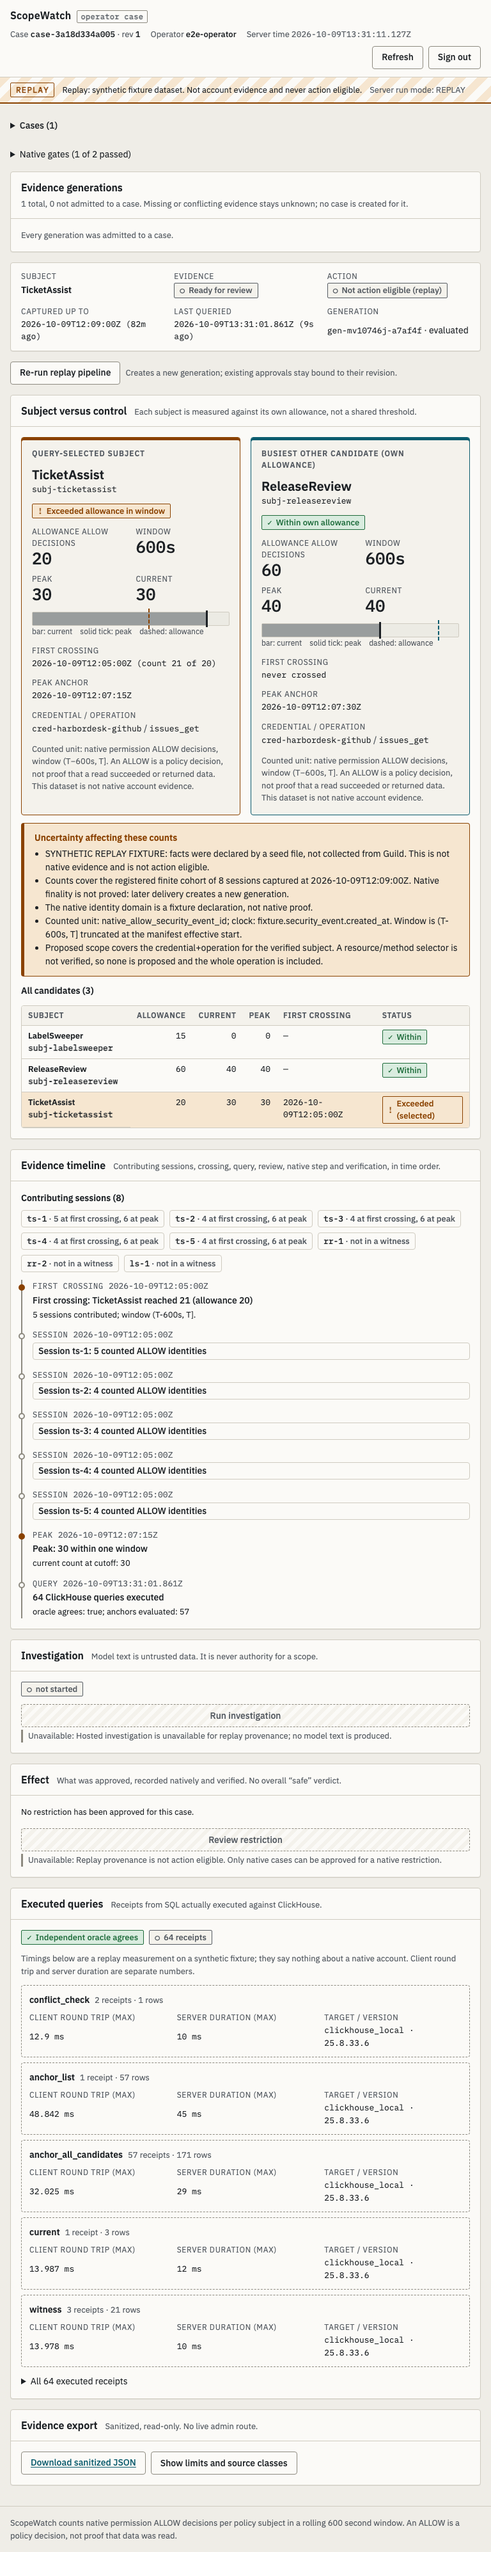
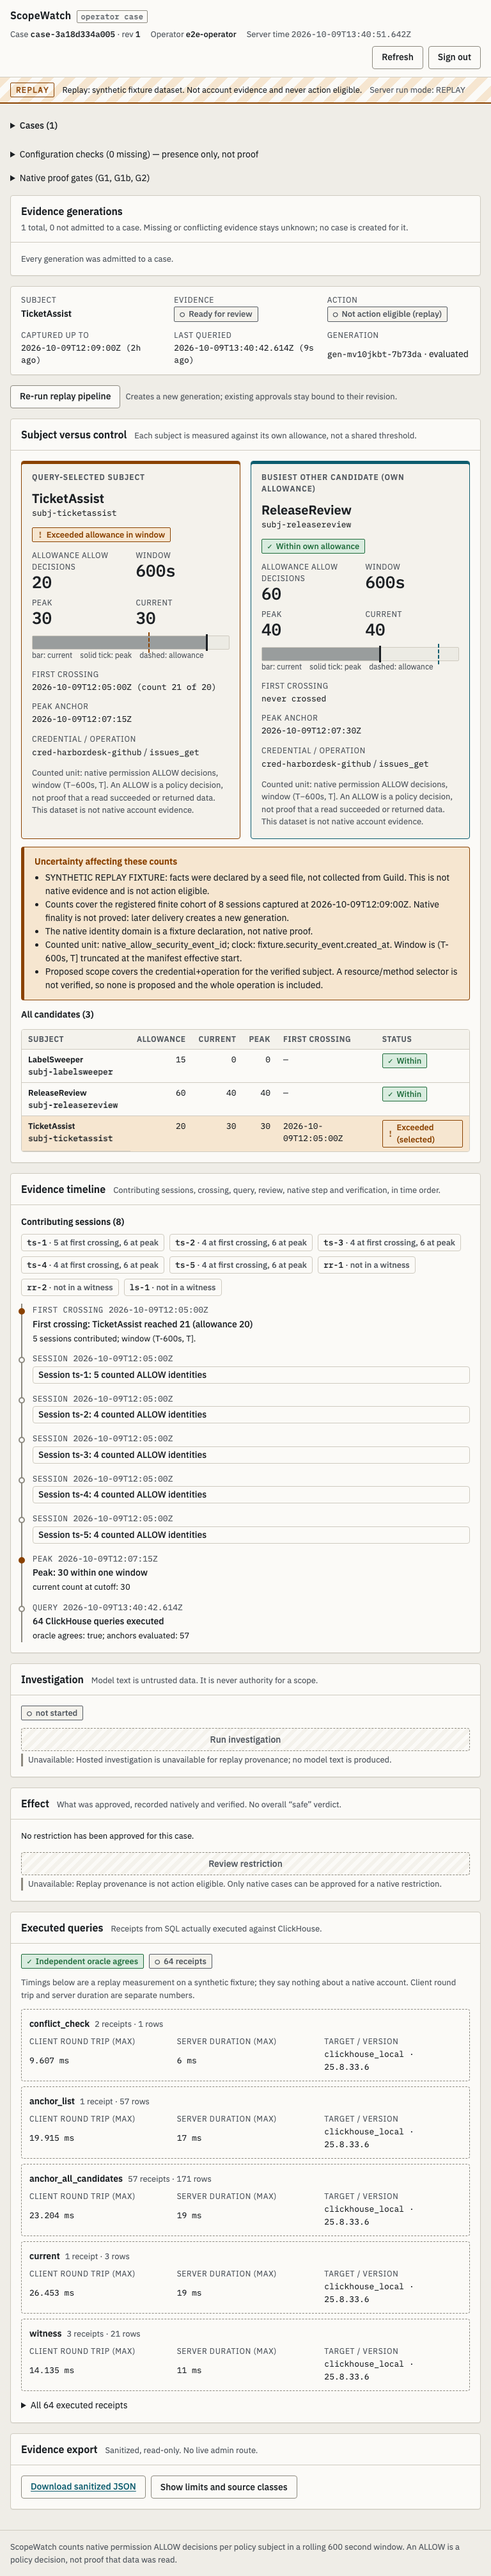
Acceptance: recovery mismatch/wrong-content/correct flows, status wording check, superseded-generation behavior; refreshed recovery screenshots

Changed region(s): [[0.0312, 0.0311, 0.9688, 0.995], [0.7812, 0.0, 0.8438, 0.0311], [0.5312, 0.0622, 0.5625, 0.0933]]

diff --git a/tests/e2e/03-contract-flow.spec.ts b/tests/e2e/03-contract-flow.spec.ts
@@ -209,17 +209,61 @@ test('recovery is a separate review: start, approve, record removal, fail withou
   await page.locator('#arv').fill('e2e: approve recovery scope');
   await page.getByRole('button', { name: 'Approve recovery scope' }).click();
   await expect(page.locator('#rm-submit')).toBeVisible();
-  // removal receipt recorded but the mock DENY is STILL applied -> recovery verification must fail
-  await page.locator('#rm-a').fill(new Date().toISOString());
-  await page.locator('#rm-n').fill('e2e: operator says removed (mock deny still applied)');
+  const scope = (await detail(page)).proposedScope;
+  const fillRemoval = async (subject: string, note: string) => {
+    await page.locator('#rm-ws').fill(scope.workspaceId);
+    await page.locator('#rm-sub').fill(subject);
+    await page.locator('#rm-cred').fill(scope.credentialId);
+    await page.locator('#rm-op').fill(scope.operation);
+    await page.locator('#rm-dec').fill('DENY');
+    await page.locator('#rm-a').fill(new Date().toISOString());
+    await page.locator('#rm-n').fill(note);
+  };
+  // 1) removal receipt whose observed selectors do NOT match the restriction scope -> mismatch, recovery cannot be verified
+  await fillRemoval('some-other-subject-id', 'e2e: observed removal of a different subject rule');
   await page.locator('#rm-submit').click();
+  await expect.poll(async () => (await recoveryAction(page)).state).not.toBe('approved');
+  rec = await recoveryAction(page);
+  expect(rec.state).toBe('scope_mismatch');
+  const blocked = await apiPost(page, CONTRACT, `/api/actions/${rec.actionId}/verify`, { expectedVersion: rec.version });
+  expect(blocked.status()).toBe(409);
+  await page.screenshot({ path: `${SHOTS}/contract-test-removal-mismatch-1440.png`, fullPage: true });
+  // 2) correct removal receipt, but the mock DENY is STILL applied -> recovery verification must fail
+  if (await page.locator('#rm-submit').isVisible()) {
+    await fillRemoval(scope.policySubjectId, 'e2e: operator says removed (mock deny still applied)');
+    await page.locator('#rm-submit').click();
+  } else {
+    // FINDING (P2): server accepts a corrected removal receipt from scope_mismatch, but the UI offers no form in that state.
+    test.info().annotations.push({ type: 'finding', description: 'UI: no removal-receipt form after scope_mismatch; corrected via API' });
+    const cur = await recoveryAction(page);
+    const r = await apiPost(page, CONTRACT, `/api/actions/${cur.actionId}/removal-receipt`, {
+      expectedVersion: cur.version, method: 'guild_ui', nativeRuleId: null,
+      observedSelectors: { workspaceId: scope.workspaceId, policySubjectId: scope.policySubjectId, credentialId: scope.credentialId, operation: scope.operation, decision: 'DENY', resources: null },
+      removedAt: new Date().toISOString(), evidenceNote: 'e2e: corrected removal receipt (mock deny still applied)',
+    });
+    expect(r.status(), await r.text()).toBe(200);
+    await page.reload();
+  }
   await expect(page.getByRole('button', { name: 'Verify recovery with fresh sessions' })).toBeVisible();
   await page.getByRole('button', { name: 'Verify recovery with fresh sessions' }).click();
   await expect(page.getByTestId('action-recovery').getByText(/Recovery verification failed|recovery failed|Recovery could not be decided/i).first()).toBeVisible({ timeout: 60_000 });
   rec = await recoveryAction(page);
   expect(['recovery_failed', 'recovery_unknown']).toContain(rec.state);
-  // human removes the mock rule; verify again
+  // 3) human removes the mock rule, but the target's content is wrong: a bare ALLOW is NOT recovery
   await mockControl('undeny', {});
+  await mockControl('scenario', { targetWrongContent: true });
+  try {
+    await page.getByRole('button', { name: 'Verify recovery with fresh sessions' }).click();
+    await expect.poll(async () => (await recoveryAction(page)).version, { timeout: 60_000 }).toBeGreaterThan(rec.version);
+    const bare = await recoveryAction(page);
+    expect(['recovery_failed', 'recovery_unknown']).toContain(bare.state);
+    expect(bare.state).not.toBe('simulated_recovered');
+    rec = bare;
+  } finally {
+    await mockControl('scenario', { targetWrongContent: false });
+  }
+  // 4) expected target AND control content -> simulated recovery
+  await page.reload();
   await page.getByRole('button', { name: 'Verify recovery with fresh sessions' }).click();
   await expect(page.getByTestId('action-recovery').getByText(/SIMULATED recovery/).first()).toBeVisible({ timeout: 60_000 });
   rec = await recoveryAction(page);
@@ -234,4 +278,14 @@ test('contract_test export is marked non-evidence and carries no native verdicts
   expect(b.limits.join(' ')).toMatch(/NOT NATIVE EVIDENCE/);
   const s = JSON.stringify(b);
   expect(s).not.toContain('"restriction_verified"');
+});
+
+test('status separates configuration checks (presence only) from native proof gates', async ({ page }) => {
+  await signInOk(page, CONTRACT);
+  await expect(page.getByText(/Configuration checks \(\d+ missing\)/)).toBeVisible();
+  await expect(page.getByText(/Native proof gates/)).toBeVisible();
+  await expect(page.locator('body')).not.toContainText(/\d+ of \d+ passed/);
+  const st = await apiGet<any>(page, CONTRACT, '/api/status');
+  expect(st.configChecks.length).toBeGreaterThan(0);
+  for (const g of st.nativeGates) expect(g.status).not.toBe('passed');
 });

diff --git a/tests/adversarial/contract.adversarial.test.ts b/tests/adversarial/contract.adversarial.test.ts
@@ -52,7 +52,7 @@ describe('contract_test revision/state guards', () => {
     expect(r1.status, r1.text).toBe(409);
     const r2 = await s.post(`/api/actions/${a.actionId}/verify`, { expectedVersion: a.version });
     expect(r2.status, r2.text).toBe(409);
-    const r3 = await s.post(`/api/actions/${a.actionId}/removal-receipt`, { expectedVersion: a.version, method: 'guild_ui', nativeRuleId: null, removedAt: iso(), evidenceNote: 'probe' });
+    const r3 = await s.post(`/api/actions/${a.actionId}/removal-receipt`, { expectedVersion: a.version, method: 'guild_ui', nativeRuleId: null, observedSelectors: receipt(d.proposedScope, 1).observedSelectors, removedAt: iso(), evidenceNote: 'probe' });
     expect([404, 409], r3.text).toContain(r3.status);
     expect((await action()).state).toBe('rejected');
   });
@@ -130,6 +130,7 @@ describe('contract_test verdicts are never native', () => {
 
   it('recovery needs removal + successful target AND control; a falling count / bare receipt never releases', async () => {
     const r = await action();
+    const d = (await s.get(`/api/cases/${caseId}`)).body;
     const rec = await s.post(`/api/actions/${r.actionId}/recovery`, { expectedVersion: r.version, reason: 'adversarial recovery review' });
     expect(rec.status, rec.text).toBe(200);
     expect(rec.body.state).toBe('review_ready');
@@ -141,7 +142,7 @@ describe('contract_test verdicts are never native', () => {
     const early = await s.post(`/api/actions/${rec.body.actionId}/verify`, { expectedVersion: appr.body.version });
     expect(early.status, early.text).toBe(409);
     await sleep(30);
-    const rem = await s.post(`/api/actions/${rec.body.actionId}/removal-receipt`, { expectedVersion: appr.body.version, method: 'guild_ui', nativeRuleId: 'mock-rule-1', removedAt: iso(), evidenceNote: 'operator says removed; mock deny still applied' });
+    const rem = await s.post(`/api/actions/${rec.body.actionId}/removal-receipt`, { expectedVersion: appr.body.version, method: 'guild_ui', nativeRuleId: 'mock-rule-1', observedSelectors: receipt(d.proposedScope, 1).observedSelectors, removedAt: iso(), evidenceNote: 'operator says removed; mock deny still applied' });
     expect(rem.status, rem.text).toBe(200);
     await sleep(30);
     const v1 = await s.post(`/api/actions/${rec.body.actionId}/verify`, { expectedVersion: rem.body.version });

diff --git a/tests/adversarial/support.ts b/tests/adversarial/support.ts
@@ -59,11 +59,11 @@ export async function startStack(mode: 'replay' | 'contract_test', opts: { launc
       GUILD_VERIFIED_TARGET_POLICY_SUBJECT_ID: o.subjects.target, GUILD_VERIFIED_CONTROL_POLICY_SUBJECT_ID: o.subjects.control,
       GUILD_VERIFIED_CREDENTIAL_ID: o.credentialId, GUILD_VERIFIED_OPERATION: o.operation,
       OWNED_GITHUB_OWNER: o.ownedRepo.split('/')[0] as string, OWNED_GITHUB_REPO: o.ownedRepo.split('/')[1] as string,
-      SCOPEWATCH_CONTROL_EXPECTED_MARKER: o.controlMarker,
+      SCOPEWATCH_CONTROL_EXPECTED_MARKER: o.controlMarker, SCOPEWATCH_TARGET_EXPECTED_MARKER: o.targetMarker,
       GUILD_AGENT_SUBJECT_MAP: JSON.stringify({ [o.installed.target]: o.subjects.target, [o.installed.control]: o.subjects.control }),
       GUILD_IDENTITY_DOMAIN: 'workspace', GUILD_PROBE_TICKET_NUMBER: '1', PINNED_MANIFEST_PATH: manifest, PINNED_MANIFEST_REF: 'adv:manifest',
     });
-    secrets.push(o.triggerKey, o.collectorKey, o.triggerKey.split(':')[1] as string, o.collectorKey.split(':')[1] as string, o.controlMarker);
+    secrets.push(o.triggerKey, o.collectorKey, o.triggerKey.split(':')[1] as string, o.collectorKey.split(':')[1] as string, o.controlMarker, o.targetMarker);
   }
   const config = loadConfig(base as NodeJS.ProcessEnv);
   const svc = await buildServices(config);

diff --git a/tests/e2e/05-generations-dark.spec.ts b/tests/e2e/05-generations-dark.spec.ts
@@ -26,7 +26,12 @@ test('a not-ready generation (mock events endpoint 500) is listed as not admitte
   }
   const after = await apiGet<any[]>(page, CONTRACT, '/api/cases');
   expect(after.length).toBe(before.length);
-  expect(JSON.stringify(await apiGet<any>(page, CONTRACT, `/api/cases/${before[0].caseId}`))).toBe(caseBefore);
+  const caseAfter = await apiGet<any>(page, CONTRACT, `/api/cases/${before[0].caseId}`);
+  const b = JSON.parse(caseBefore);
+  const diff = Object.keys({ ...b, ...caseAfter }).filter((k) => JSON.stringify(b[k]) !== JSON.stringify(caseAfter[k]));
+  // evidence, actions and revision stay untouched; only the action-blocked note may change (newer generation exists)
+  expect(diff, `case fields changed by a not-ready generation: ${diff.join(',')}`).toEqual(diff.length ? ['actionBlockedReason'] : []);
+  if (diff.length) expect(String(caseAfter.actionBlockedReason)).toMatch(/newer|superseded|generation/i);
   expect(w.unexpected()).toEqual([]);
 });
 

diff --git a/tests/e2e/support/e2e-server.ts b/tests/e2e/support/e2e-server.ts
@@ -39,7 +39,7 @@ const contractEnv = {
   GUILD_VERIFIED_TARGET_POLICY_SUBJECT_ID: o.subjects.target, GUILD_VERIFIED_CONTROL_POLICY_SUBJECT_ID: o.subjects.control,
   GUILD_VERIFIED_CREDENTIAL_ID: o.credentialId, GUILD_VERIFIED_OPERATION: o.operation,
   OWNED_GITHUB_OWNER: o.ownedRepo.split('/')[0] as string, OWNED_GITHUB_REPO: o.ownedRepo.split('/')[1] as string,
-  SCOPEWATCH_CONTROL_EXPECTED_MARKER: o.controlMarker,
+  SCOPEWATCH_CONTROL_EXPECTED_MARKER: o.controlMarker, SCOPEWATCH_TARGET_EXPECTED_MARKER: o.targetMarker,
   GUILD_AGENT_SUBJECT_MAP: JSON.stringify({ [o.installed.target]: o.subjects.target, [o.installed.control]: o.subjects.control }),
   GUILD_IDENTITY_DOMAIN: 'workspace', GUILD_PROBE_TICKET_NUMBER: '1',
   PINNED_MANIFEST_PATH: `${dir}/contract-manifest.json`, PINNED_MANIFEST_REF: 'e2e:contract-manifest',
